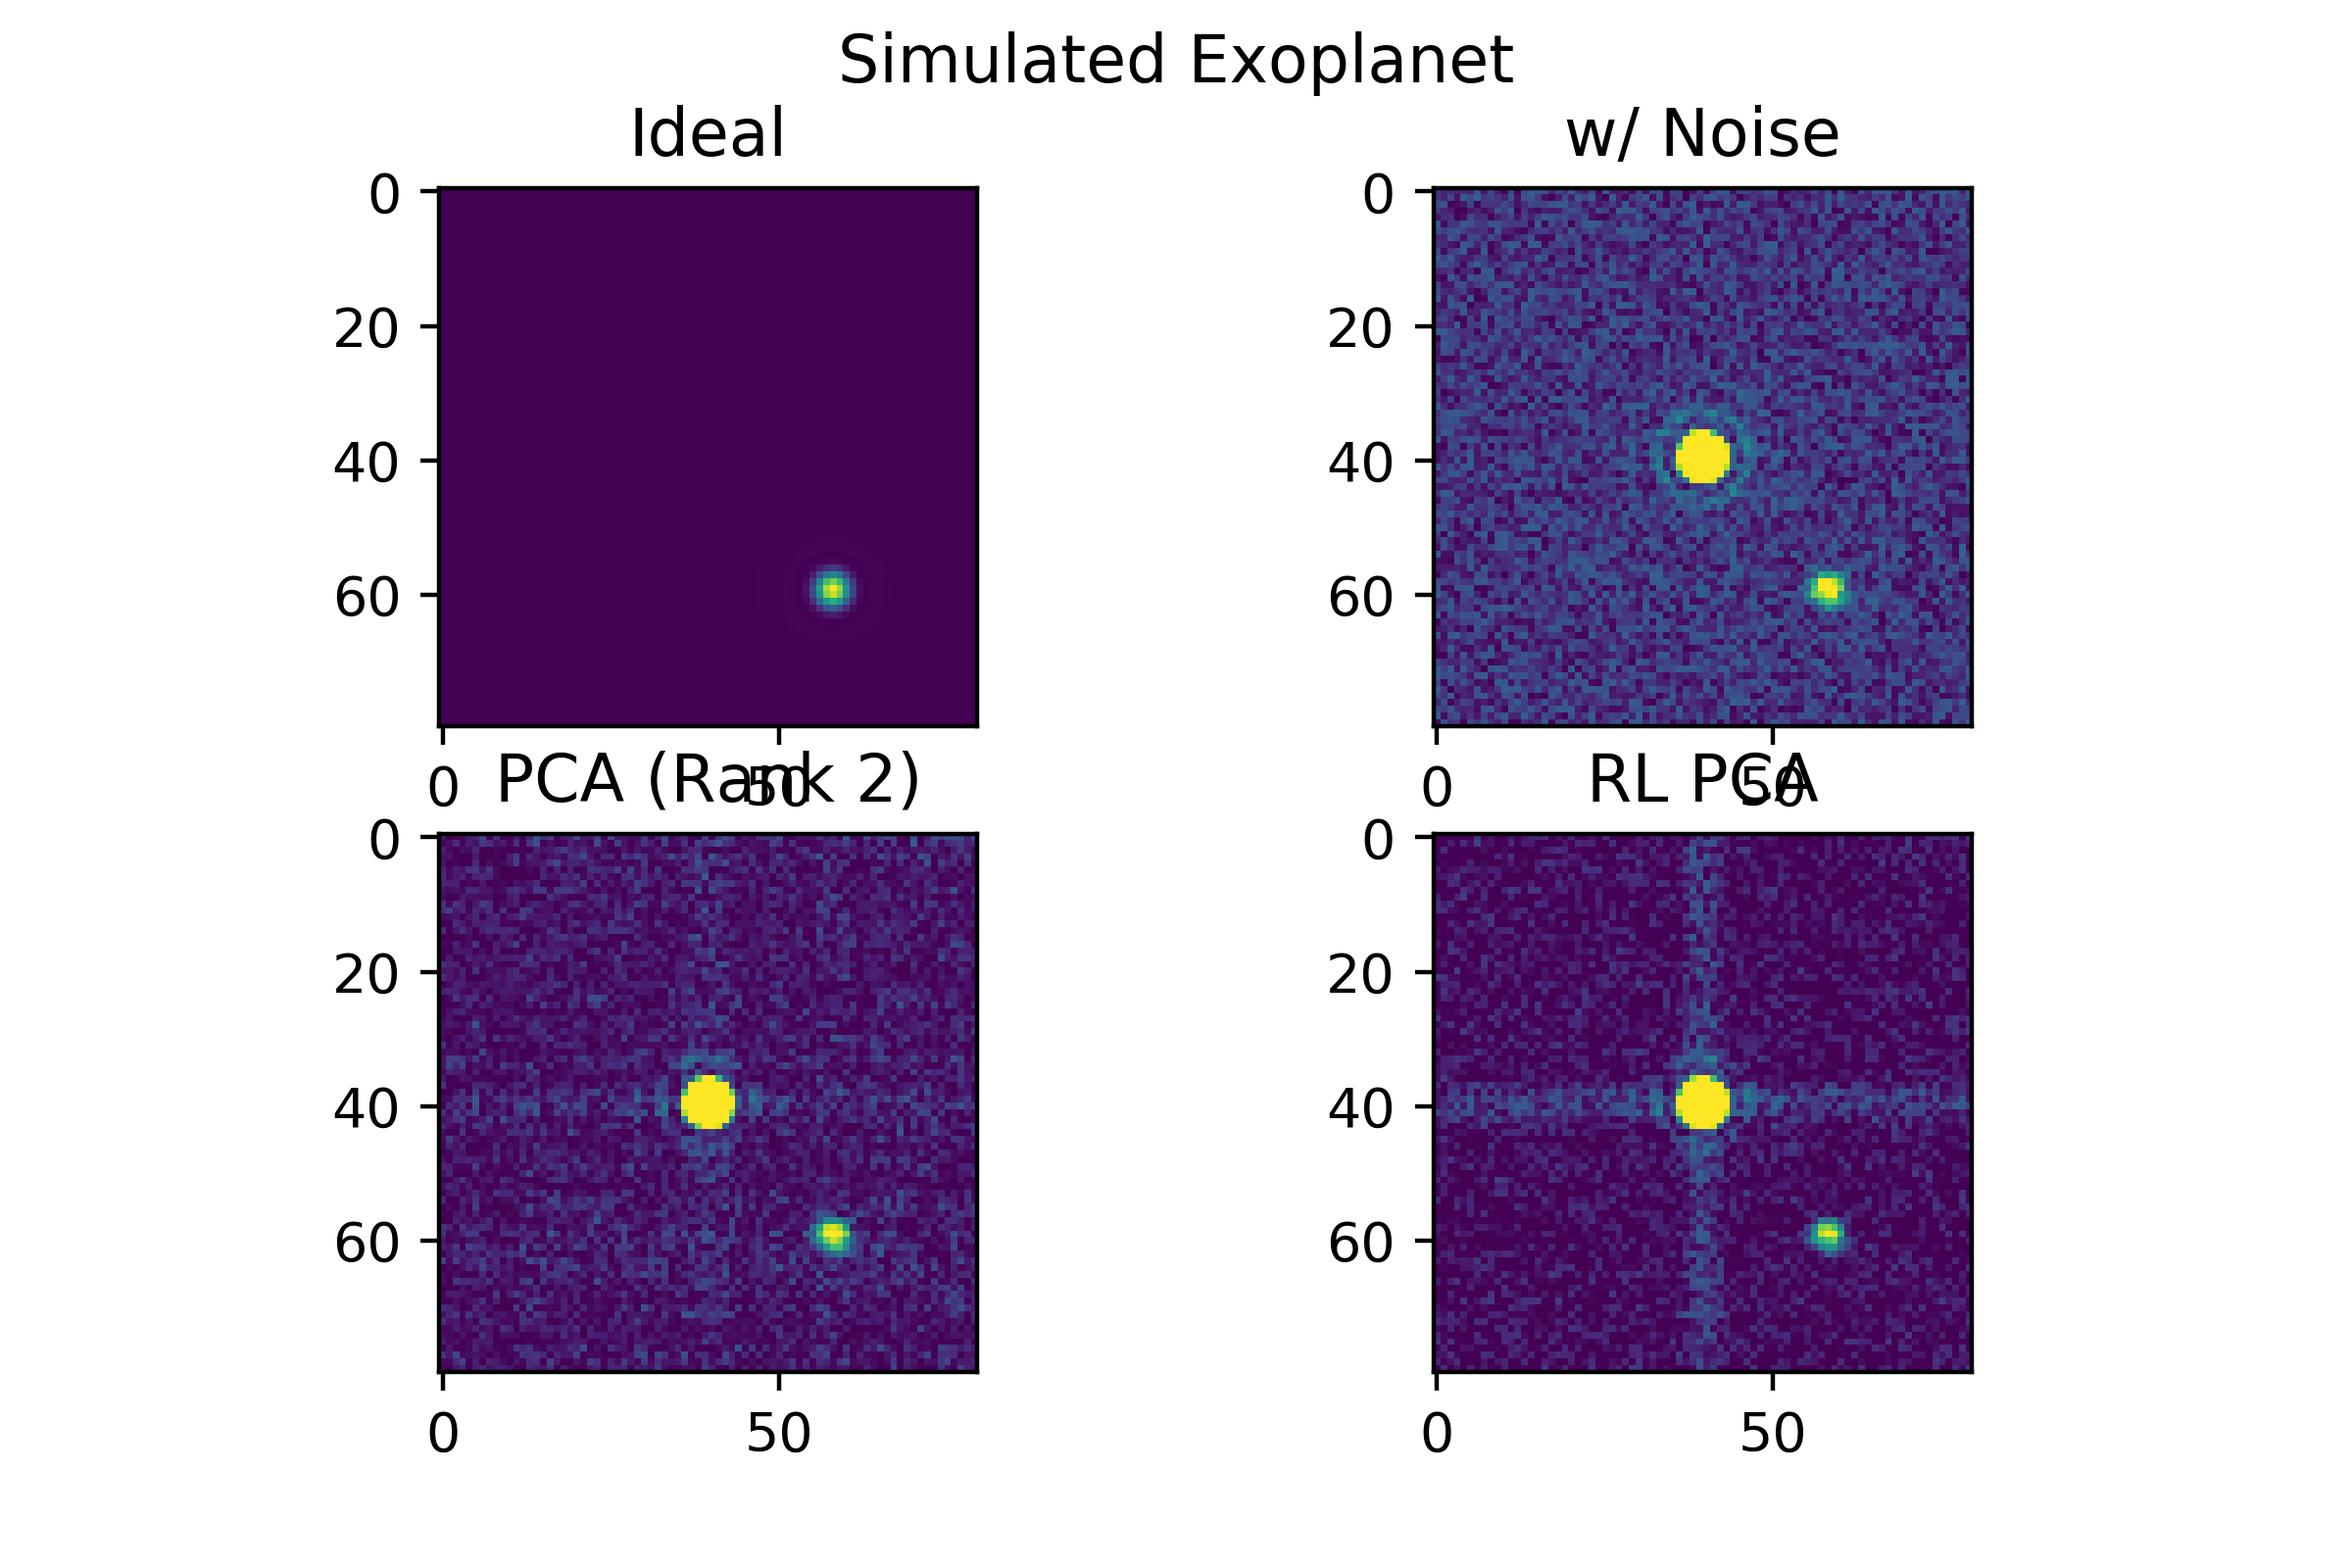
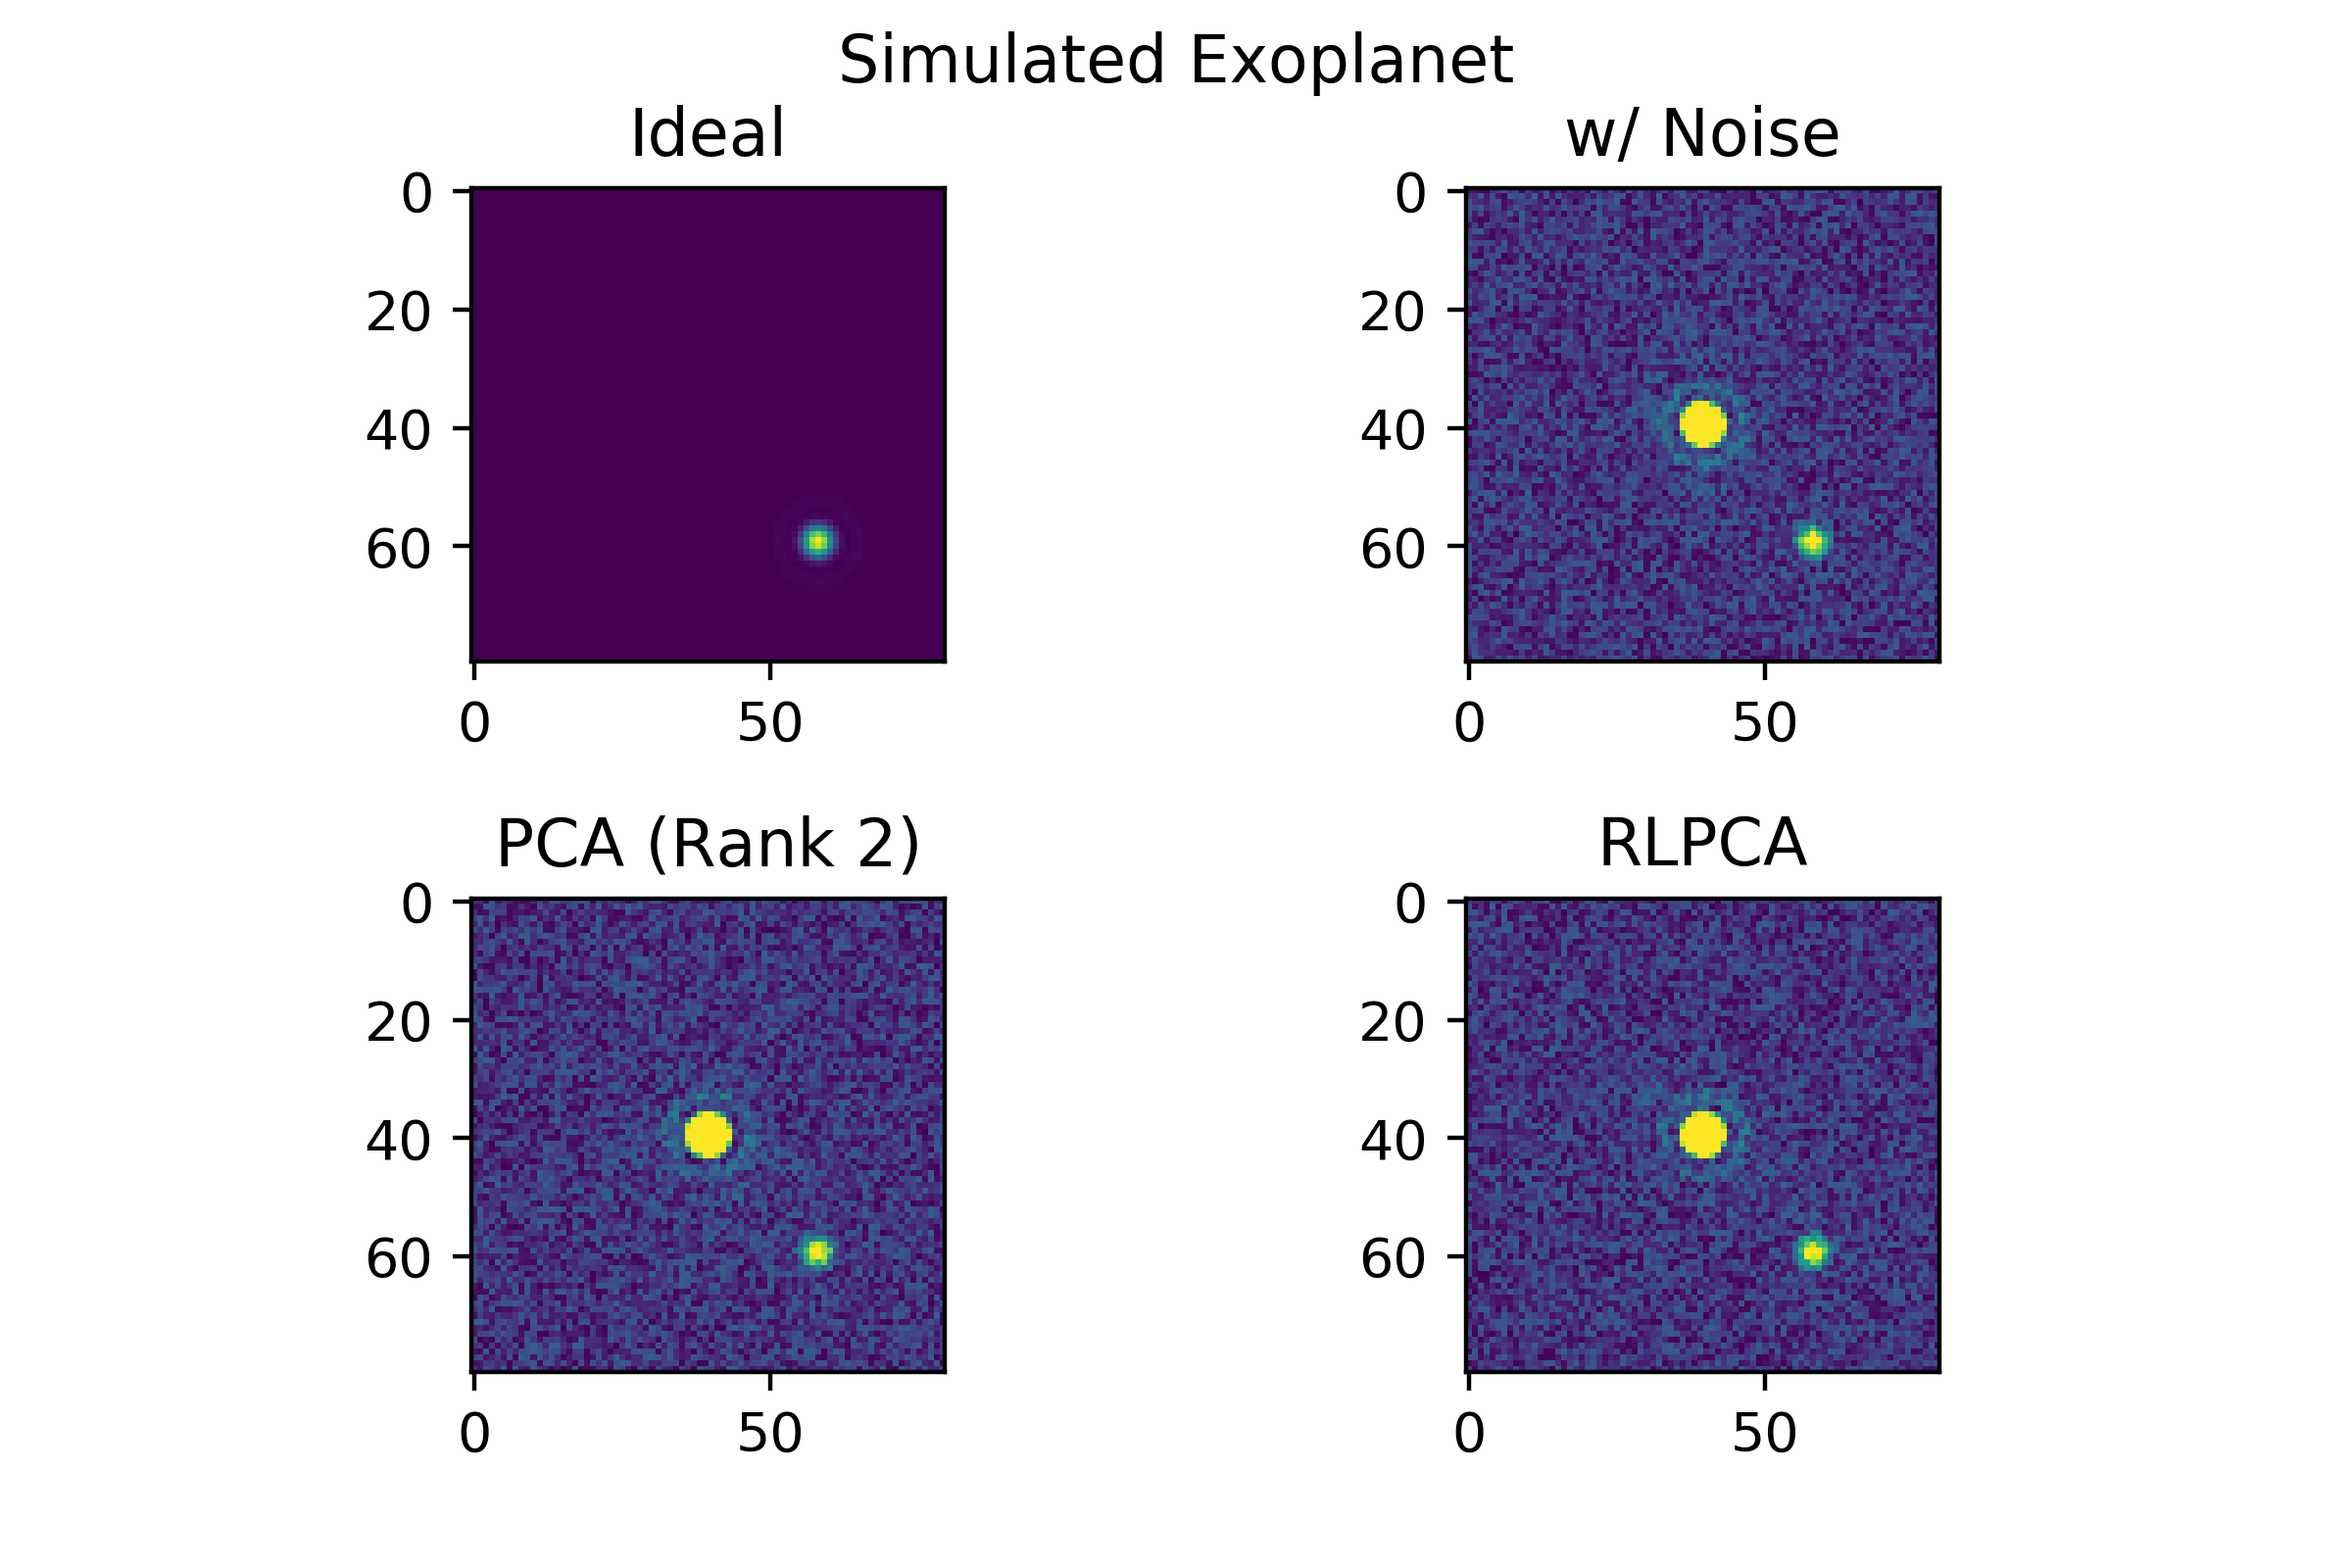
update

Changed region(s): [[0.5625, 0.0938, 0.8438, 0.9375], [0.125, 0.0938, 0.4375, 0.9375]]

diff --git a/reflesspca.py b/reflesspca.py
@@ -11,39 +11,55 @@ import matplotlib.pyplot as plt
 import random as rd
 
 
-'''create data consisting of star signal, planet signal and noise'''
+'''create t x n x n data cube of t images consisting of star signal, planet signal and noise'''
 def airy(x, y, x_offset, y_offset, i0):
     r = np.sqrt((x+x_offset)**2+(y+y_offset)**2)
     return i0*(2*sp.special.j1(r)/r)**2
 
-star = []
-planet= []
-noise = []
+cube_ideal = []
+cube_real = []
 
-boundary = 30
-steps = 80
+frames = 10 #corresponds to t
+boundary = 30 #corresponds to n x n
+steps = 80 #resolution
 
-for x in np.linspace(boundary, -boundary, steps):
-    temp = []
-    for y in np.linspace(-boundary, boundary, steps):
-        temp.append(airy(x, y, 0, 0, 10))
-    star.append(temp)
+for i in range(frames):
+
+    star = []
+    planet= []
+    noise = []
+
+    for x in np.linspace(boundary, -boundary, steps):
+        temp = []
+        for y in np.linspace(-boundary, boundary, steps):
+            temp.append(airy(x, y, 0, 0, 10))
+        star.append(temp)
+        
+    for x in np.linspace(boundary, -boundary, steps):
+        temp = []
+        for y in np.linspace(-boundary, boundary, steps):
+            temp.append(airy(x, y, 15, -14, 1))
+        planet.append(temp)
     
-for x in np.linspace(boundary, -boundary, steps):
-    temp = []
-    for y in np.linspace(-boundary, boundary, steps):
-        temp.append(airy(x, y, 15, -14, 1))
-    planet.append(temp)
+    for x in np.linspace(boundary, -boundary, steps):
+        temp = []
+        for y in np.linspace(-boundary, boundary, steps):
+            temp.append(rd.uniform(0, 0.3))
+        noise.append(temp)
+    
+    frame_ideal = np.asarray(planet)    
+    frame_real = np.asarray(star) + np.asarray(planet) + np.asarray(noise)
 
-for x in np.linspace(boundary, -boundary, steps):
-    temp = []
-    for y in np.linspace(-boundary, boundary, steps):
-        temp.append(rd.uniform(0, 0.3))
-    noise.append(temp)
+    cube_ideal.append(frame_ideal)
+    cube_real.append(frame_real)    
+    
+cube_ideal = np.asarray(cube_ideal)
+cube_real = np.asarray(cube_real)
 
-Y_ideal = np.asarray(planet)
+print(cube_ideal)
 
-Y_real = np.asarray(star) + np.asarray(planet) + np.asarray(noise)
+
+'''reshape data cube into t x n^2 matrix'''
 
 
 '''PCA'''
@@ -100,8 +116,7 @@ def RLPCA(Y, p):
         if rank == 0:
             return Y - LRA(Y, 1)
         return Y - LRA(Y - S_r(rank-1), rank)
-    S_p = S_r(p)
-    return S_p
+    return S_r(p)
     
 #def S_r(Y, rank):
 #    if rank == 0:
@@ -116,13 +131,9 @@ def tester(Y, p):
     return S
 
 test = np.asarray([[1, 2, 1], [2, 2, 3], [3, 1, 2]])
-print(RLPCA(test, 2))
-print(tester(test, 2))
 
 S_pca = Y_real - LRA(Y_real, 2)
-S_p = tester(Y_real, 3)
-S_p2 = tester(Y_real, 73)
-
+S_p = RLPCA(Y_real, 3)
 
 #print(Y_real - LRA(Y_real, 1))
 #print("\n\n\n")
@@ -139,6 +150,8 @@ S_p2 = tester(Y_real, 73)
 
 '''make plot'''
 plt.suptitle("Simulated Exoplanet")
+plt.subplots_adjust(hspace=0.5)
+
 plt.subplot(2, 2, 1)
 plt.title("Ideal")
 plt.imshow(Y_ideal, vmin=0, vmax=1)
@@ -149,10 +162,10 @@ plt.imshow(Y_real, vmin=0, vmax=1)
 
 plt.subplot(2, 2, 3)
 plt.title("PCA (Rank 2)")
-plt.imshow(S_p2, vmin=0, vmax=1)
+plt.imshow(S_pca, vmin=0, vmax=1)
 
 plt.subplot(2, 2, 4)
-plt.title("RL PCA")
+plt.title("RLPCA")
 plt.imshow(S_p, vmin=0, vmax=1)
 
 plt.savefig("fig.png", dpi=400)
